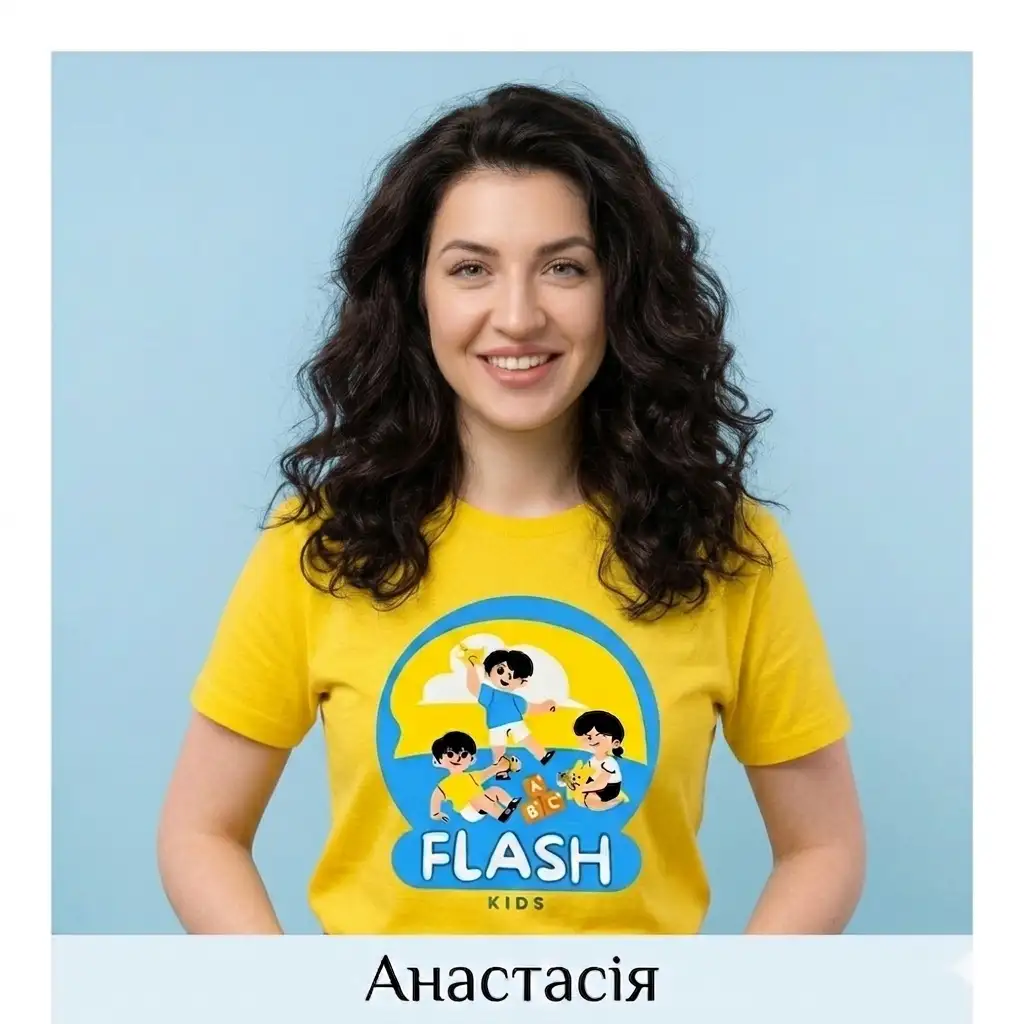
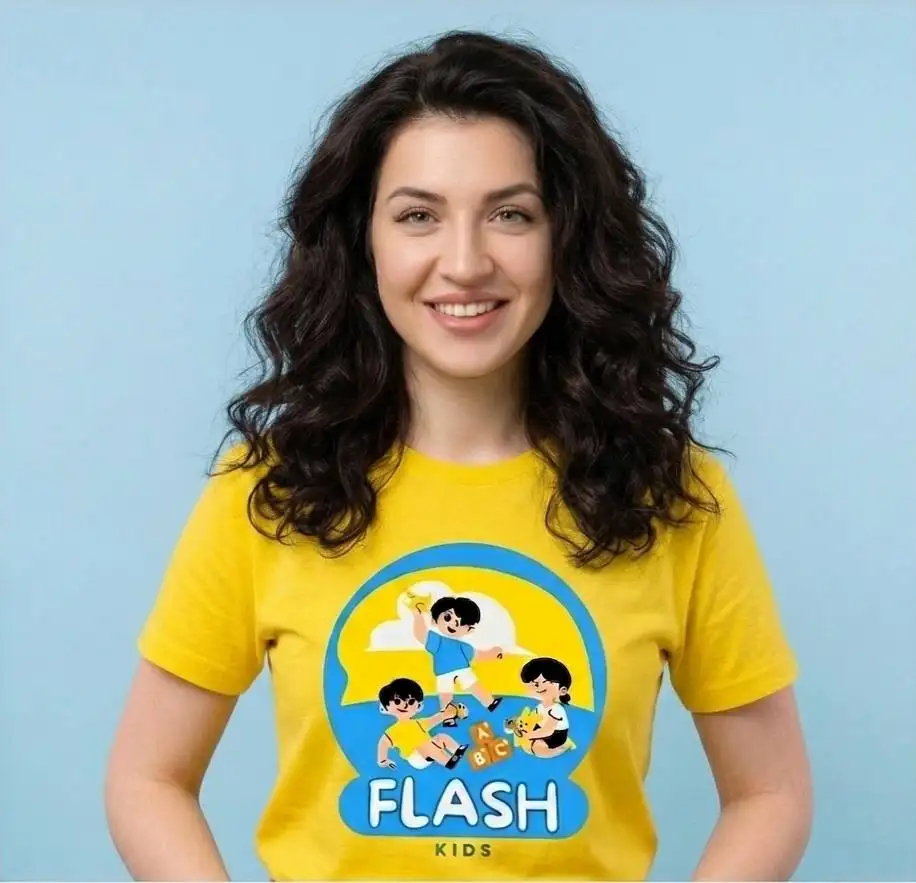
changed photos of techers

diff --git a/index.html b/index.html
@@ -560,30 +560,30 @@
         <div class="fk-team__grid">
           <div class="fk-team-card fk-animate">
             <div class="fk-team-card__img-wrap">
-              <img src="images/IMG_4381.webp" alt="Вихователь 1" loading="lazy">
+              <img src="images/IMG_4381.webp" alt="Анна" loading="lazy">
             </div>
-            <h3 class="fk-team-card__name">Вихователь 1</h3>
+            <h3 class="fk-team-card__name">Анна</h3>
             <p class="fk-team-card__role">Психолог-педагог</p>
           </div>
           <div class="fk-team-card fk-animate">
             <div class="fk-team-card__img-wrap">
-              <img src="images/IMG_4362.webp" alt="Вихователь 2" loading="lazy">
+              <img src="images/IMG_4362.webp" alt="Анастасія" loading="lazy">
             </div>
-            <h3 class="fk-team-card__name">Вихователь 2</h3>
+            <h3 class="fk-team-card__name">Анастасія</h3>
             <p class="fk-team-card__role">Психолог-педагог</p>
           </div>
           <div class="fk-team-card fk-animate">
             <div class="fk-team-card__img-wrap">
-              <img src="images/IMG_4385.webp" alt="Вихователь 3" loading="lazy">
+              <img src="images/IMG_4385.webp" alt="Сніжана" loading="lazy">
             </div>
-            <h3 class="fk-team-card__name">Вихователь 3</h3>
+            <h3 class="fk-team-card__name">Сніжана</h3>
             <p class="fk-team-card__role">Психолог-педагог</p>
           </div>
           <div class="fk-team-card fk-animate">
             <div class="fk-team-card__img-wrap">
-              <img src="images/IMG_4384.webp" alt="Кісь Анастасія" loading="lazy">
+              <img src="images/IMG_4384.webp" alt="Анастасія" loading="lazy">
             </div>
-            <h3 class="fk-team-card__name">Кісь Анастасія</h3>
+            <h3 class="fk-team-card__name">Анастасія</h3>
             <p class="fk-team-card__role">Власниця / Засновниця</p>
           </div>
         </div>
